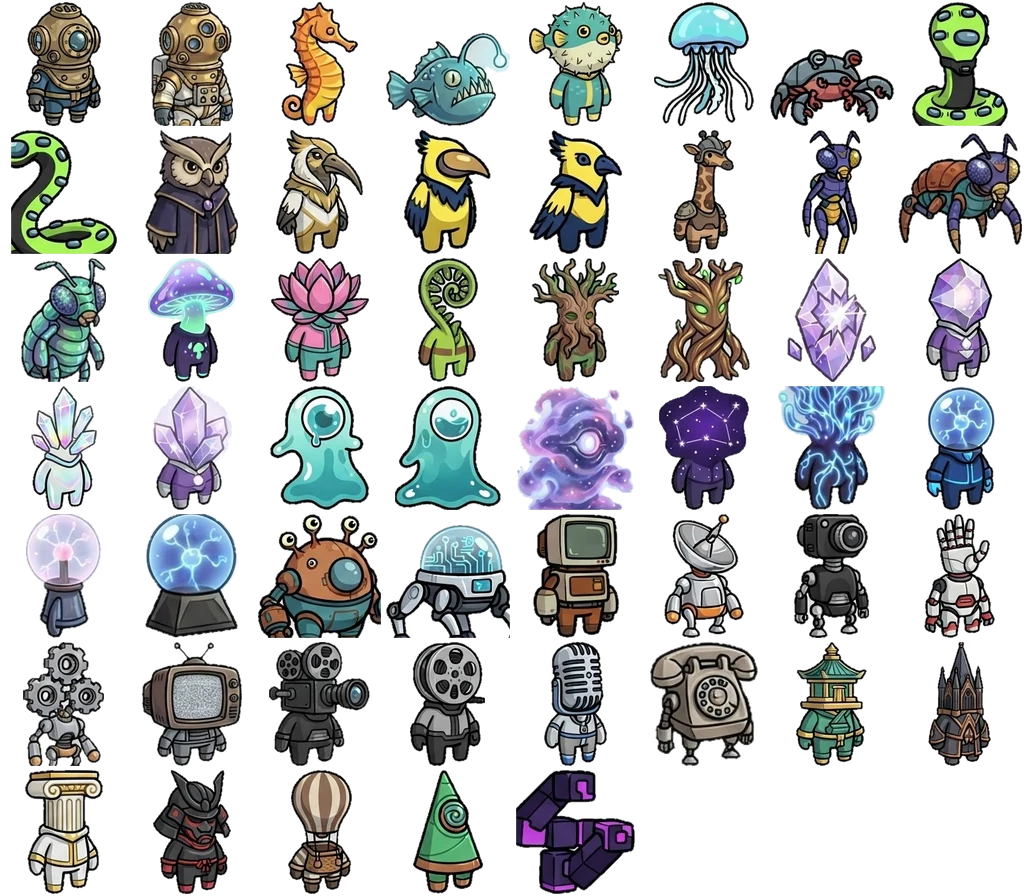
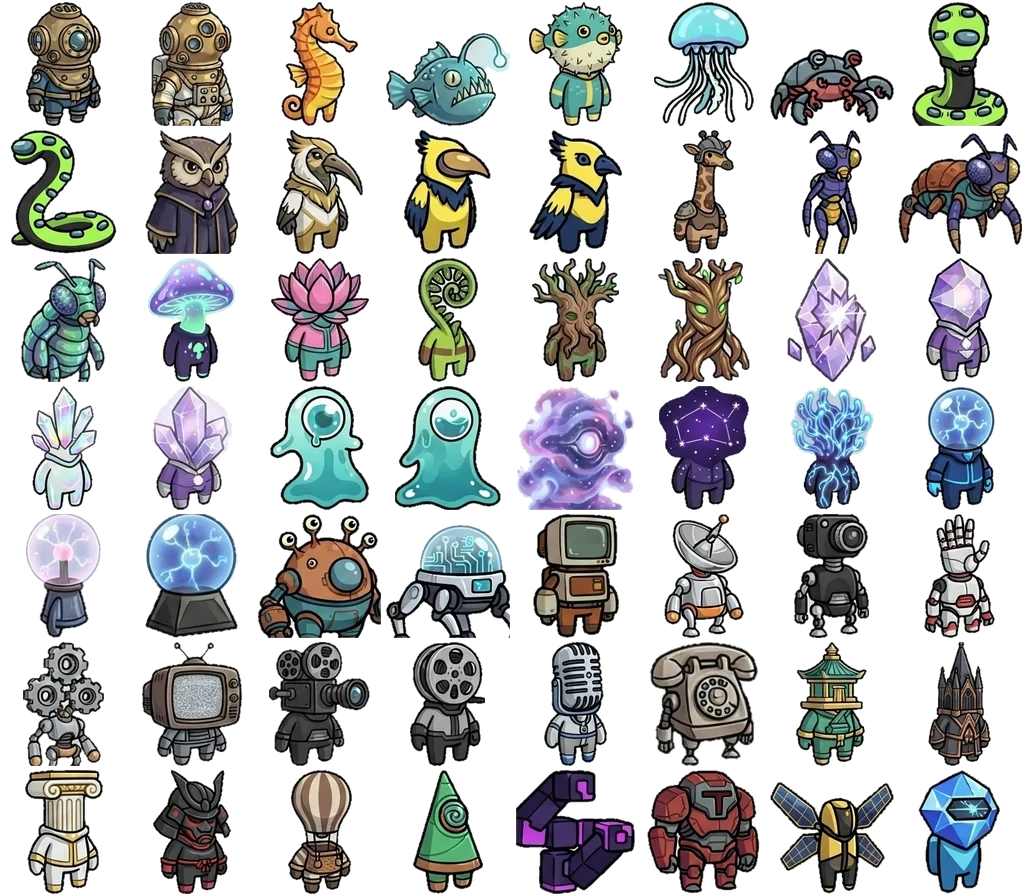
v25: vuelven la serpiente enrollada y el coral (completos) y se añaden robot acorazado, satélite y diamante
Claude-Session: https://claude.ai/code/session_015MjFWVPzSuBk34J6ed52Jz

Changed region(s): [[0.625, 0.8438, 1.0, 1.0], [0.75, 0.4062, 0.875, 0.5938], [0.0, 0.125, 0.125, 0.2812]]

diff --git a/js/personajes-data.js b/js/personajes-data.js
@@ -1,7 +1,7 @@
 /* Personajes (imágenes hechas por la familia con Gemini). Hoja: img/personajes.webp.
    Cada entrada: [id, x, y, ancho, alto, nombre ES, nombre EN] */
 (function (root) {
-  var LIST = [["b00", 26, 2, 75, 124, "Buzo", "Diver"], ["c00", 151, 2, 82, 124, "Buzo dorado", "Gold diver"], ["b24", 281, 2, 77, 124, "Caballito de mar", "Seahorse"], ["c11", 386, 33, 124, 93, "Pez abisal", "Anglerfish"], ["b11", 529, 2, 94, 124, "Pez globo", "Pufferfish"], ["a11", 654, 2, 100, 124, "Medusa", "Jellyfish"], ["a24", 770, 49, 124, 77, "Cangrejo", "Crab"], ["a04", 912, 2, 96, 124, "Serpiente", "Snake"], ["c01", 145, 130, 93, 124, "Búho", "Owl"], ["b01", 276, 130, 87, 124, "Ibis", "Ibis"], ["a20", 404, 130, 87, 124, "Tucán", "Toucan"], ["a21", 529, 130, 93, 124, "Pájaro", "Bird"], ["b14", 673, 130, 61, 124, "Jirafa", "Giraffe"], ["a01", 802, 130, 60, 124, "Hormiga", "Ant"], ["b04", 898, 133, 124, 121, "Escarabajo", "Beetle"], ["c04", 21, 258, 85, 124, "Mantis", "Mantis"], ["b03", 148, 258, 87, 124, "Seta brillante", "Glow mushroom"], ["b21", 271, 258, 98, 124, "Flor de loto", "Lotus"], ["b31", 418, 258, 60, 124, "Helecho", "Fern"], ["b33", 532, 258, 87, 124, "Árbol", "Tree"], ["c13", 658, 258, 92, 124, "Árbol mágico", "Magic tree"], ["a12", 787, 258, 89, 124, "Cristal", "Crystal"], ["b05", 926, 258, 67, 124, "Gema", "Gem"], ["b13", 31, 386, 66, 124, "Cuarzo", "Quartz"], ["c24", 152, 386, 80, 124, "Amatista", "Amethyst"], ["a14", 270, 386, 99, 124, "Babosa de un ojo", "Eye slime"], ["a15", 395, 386, 106, 124, "Babosa gota", "Drop slime"], ["c03", 517, 386, 117, 124, "Nebulosa", "Nebula"], ["b35", 659, 386, 90, 124, "Constelación", "Constellation"], ["b25", 925, 386, 70, 124, "Bola de plasma", "Plasma ball"], ["c34", 26, 514, 75, 124, "Lámpara de plasma", "Plasma lamp"], ["c35", 145, 514, 93, 124, "Orbe", "Orb"], ["a00", 258, 514, 123, 124, "Robot de ojos", "Eye bot"], ["a02", 386, 525, 124, 113, "Robot araña", "Spider bot"], ["a13", 533, 514, 86, 124, "Robot tele", "TV bot"], ["b02", 664, 514, 80, 124, "Antena", "Dish bot"], ["b20", 794, 514, 75, 124, "Cámara", "Camera"], ["b30", 924, 514, 71, 124, "Mano robot", "Robot hand"], ["c02", 23, 642, 81, 124, "Engranajes", "Gears"], ["c10", 142, 642, 100, 124, "Tele antigua", "Old TV"], ["c14", 269, 642, 101, 124, "Proyector", "Projector"], ["b15", 410, 642, 75, 124, "Rollo de cine", "Film reel"], ["b23", 544, 642, 63, 124, "Micrófono", "Microphone"], ["c30", 650, 642, 108, 124, "Teléfono", "Phone"], ["b10", 796, 642, 71, 124, "Pagoda", "Pagoda"], ["b22", 928, 642, 63, 124, "Catedral", "Cathedral"], ["b34", 25, 770, 78, 124, "Columna", "Column"], ["b12", 153, 770, 78, 124, "Samurái", "Samurai"], ["b32", 288, 770, 64, 124, "Globo", "Balloon"], ["a22", 413, 770, 70, 124, "Cono espiral", "Spiral cone"], ["a35", 516, 770, 119, 124, "Cubos", "Cubes"]];
+  var LIST = [["b00", 26, 2, 75, 124, "Buzo", "Diver"], ["c00", 151, 2, 82, 124, "Buzo dorado", "Gold diver"], ["b24", 281, 2, 77, 124, "Caballito de mar", "Seahorse"], ["c11", 386, 33, 124, 93, "Pez abisal", "Anglerfish"], ["b11", 529, 2, 94, 124, "Pez globo", "Pufferfish"], ["a11", 654, 2, 100, 124, "Medusa", "Jellyfish"], ["a24", 770, 49, 124, 77, "Cangrejo", "Crab"], ["a04", 912, 2, 96, 124, "Serpiente", "Snake"], ["a05", 10, 130, 107, 124, "Serpiente enrollada", "Coil snake"], ["c01", 145, 130, 93, 124, "Búho", "Owl"], ["b01", 276, 130, 87, 124, "Ibis", "Ibis"], ["a20", 404, 130, 87, 124, "Tucán", "Toucan"], ["a21", 529, 130, 93, 124, "Pájaro", "Bird"], ["b14", 673, 130, 61, 124, "Jirafa", "Giraffe"], ["a01", 802, 130, 60, 124, "Hormiga", "Ant"], ["b04", 898, 133, 124, 121, "Escarabajo", "Beetle"], ["c04", 21, 258, 85, 124, "Mantis", "Mantis"], ["b03", 148, 258, 87, 124, "Seta brillante", "Glow mushroom"], ["b21", 271, 258, 98, 124, "Flor de loto", "Lotus"], ["b31", 418, 258, 60, 124, "Helecho", "Fern"], ["b33", 532, 258, 87, 124, "Árbol", "Tree"], ["c13", 658, 258, 92, 124, "Árbol mágico", "Magic tree"], ["a12", 787, 258, 89, 124, "Cristal", "Crystal"], ["b05", 926, 258, 67, 124, "Gema", "Gem"], ["b13", 31, 386, 66, 124, "Cuarzo", "Quartz"], ["c24", 152, 386, 80, 124, "Amatista", "Amethyst"], ["c41", 790, 386, 84, 124, "Coral eléctrico", "Electric coral"], ["a14", 270, 386, 99, 124, "Babosa de un ojo", "Eye slime"], ["a15", 395, 386, 106, 124, "Babosa gota", "Drop slime"], ["c03", 517, 386, 117, 124, "Nebulosa", "Nebula"], ["b35", 659, 386, 90, 124, "Constelación", "Constellation"], ["b25", 925, 386, 70, 124, "Bola de plasma", "Plasma ball"], ["c34", 26, 514, 75, 124, "Lámpara de plasma", "Plasma lamp"], ["c35", 145, 514, 93, 124, "Orbe", "Orb"], ["a00", 258, 514, 123, 124, "Robot de ojos", "Eye bot"], ["a02", 386, 525, 124, 113, "Robot araña", "Spider bot"], ["a13", 533, 514, 86, 124, "Robot tele", "TV bot"], ["b02", 664, 514, 80, 124, "Antena", "Dish bot"], ["b20", 794, 514, 75, 124, "Cámara", "Camera"], ["b30", 924, 514, 71, 124, "Mano robot", "Robot hand"], ["c02", 23, 642, 81, 124, "Engranajes", "Gears"], ["c10", 142, 642, 100, 124, "Tele antigua", "Old TV"], ["c14", 269, 642, 101, 124, "Proyector", "Projector"], ["b15", 410, 642, 75, 124, "Rollo de cine", "Film reel"], ["b23", 544, 642, 63, 124, "Micrófono", "Microphone"], ["c30", 650, 642, 108, 124, "Teléfono", "Phone"], ["b10", 796, 642, 71, 124, "Pagoda", "Pagoda"], ["b22", 928, 642, 63, 124, "Catedral", "Cathedral"], ["b34", 25, 770, 78, 124, "Columna", "Column"], ["b12", 153, 770, 78, 124, "Samurái", "Samurai"], ["b32", 288, 770, 64, 124, "Globo", "Balloon"], ["a22", 413, 770, 70, 124, "Cono espiral", "Spiral cone"], ["a35", 516, 770, 119, 124, "Cubos", "Cubes"], ["d01", 647, 770, 113, 124, "Robot acorazado", "Armored robot"], ["d02", 770, 782, 124, 112, "Satélite", "Satellite"], ["d03", 918, 770, 83, 124, "Diamante", "Diamond"]];
   root.PERSONAJES_DATA = LIST;
   if (typeof module !== 'undefined') module.exports = LIST;
 })(typeof window !== 'undefined' ? window : globalThis);

diff --git a/movil.html b/movil.html
@@ -6,7 +6,7 @@
 <meta name="viewport" content="width=device-width, initial-scale=1, maximum-scale=1, user-scalable=no, viewport-fit=cover">
 <meta name="theme-color" content="#0b1026">
 <title>Sneak Out · Móvil</title>
-<link rel="stylesheet" href="css/estilo.css?v=24">
+<link rel="stylesheet" href="css/estilo.css?v=25">
 <link rel="manifest" href="manifest.webmanifest">
 <link rel="icon" href="icons/icono2-192.png">
 <link rel="apple-touch-icon" href="icons/icono2-apple-180.png">
@@ -178,25 +178,25 @@
   <canvas class="minimap" id="admCv"></canvas>
 </div>
 
-<script src="vendor/peerjs.min.js?v=24"></script>
-<script src="vendor/trystero.min.js?v=24"></script>
-<script src="js/rebote.js?v=24"></script>
-<script src="js/i18n.js?v=24"></script>
-<script src="js/map.js?v=24"></script>
-<script src="js/game.js?v=24"></script>
-<script src="js/personajes-data.js?v=24"></script>
-<script src="js/fondo.js?v=24"></script>
-<script src="js/efectos.js?v=24"></script>
-<script src="js/disfraces.js?v=24"></script>
-<script src="js/draw.js?v=24"></script>
-<script src="js/nave.js?v=24"></script>
-<script src="js/abisal.js?v=24"></script>
-<script src="js/net.js?v=24"></script>
-<script src="vendor/qrcode.js?v=24"></script>
-<script src="js/servidor.js?v=24"></script>
-<script src="js/ajustes.js?v=24"></script>
-<script src="js/minijuegos.js?v=24"></script>
-<script src="js/movil.js?v=24"></script>
+<script src="vendor/peerjs.min.js?v=25"></script>
+<script src="vendor/trystero.min.js?v=25"></script>
+<script src="js/rebote.js?v=25"></script>
+<script src="js/i18n.js?v=25"></script>
+<script src="js/map.js?v=25"></script>
+<script src="js/game.js?v=25"></script>
+<script src="js/personajes-data.js?v=25"></script>
+<script src="js/fondo.js?v=25"></script>
+<script src="js/efectos.js?v=25"></script>
+<script src="js/disfraces.js?v=25"></script>
+<script src="js/draw.js?v=25"></script>
+<script src="js/nave.js?v=25"></script>
+<script src="js/abisal.js?v=25"></script>
+<script src="js/net.js?v=25"></script>
+<script src="vendor/qrcode.js?v=25"></script>
+<script src="js/servidor.js?v=25"></script>
+<script src="js/ajustes.js?v=25"></script>
+<script src="js/minijuegos.js?v=25"></script>
+<script src="js/movil.js?v=25"></script>
 <script>if ('serviceWorker' in navigator) { try { navigator.serviceWorker.register('sw.js'); } catch (e) {} }</script>
 </body>
 </html>

diff --git a/tele.html b/tele.html
@@ -5,7 +5,7 @@
 <meta name="robots" content="noindex, nofollow, noarchive">
 <meta name="viewport" content="width=device-width, initial-scale=1">
 <title>Sneak Out · Tele</title>
-<link rel="stylesheet" href="css/estilo.css?v=24">
+<link rel="stylesheet" href="css/estilo.css?v=25">
 <link rel="manifest" href="manifest.webmanifest">
 <link rel="icon" href="icons/icono2-192.png">
 <link rel="apple-touch-icon" href="icons/icono2-apple-180.png">
@@ -101,24 +101,24 @@
 
 <div class="lost hidden" id="lost"><span data-i18n="tv.lostTitle"></span> · <span data-i18n="tv.lostText"></span></div>
 
-<script src="vendor/peerjs.min.js?v=24"></script>
-<script src="vendor/trystero.min.js?v=24"></script>
-<script src="js/rebote.js?v=24"></script>
-<script src="vendor/qrcode.js?v=24"></script>
-<script src="js/i18n.js?v=24"></script>
-<script src="js/map.js?v=24"></script>
-<script src="js/game.js?v=24"></script>
-<script src="js/personajes-data.js?v=24"></script>
-<script src="js/fondo.js?v=24"></script>
-<script src="js/efectos.js?v=24"></script>
-<script src="js/disfraces.js?v=24"></script>
-<script src="js/draw.js?v=24"></script>
-<script src="js/nave.js?v=24"></script>
-<script src="js/abisal.js?v=24"></script>
-<script src="js/net.js?v=24"></script>
-<script src="js/servidor.js?v=24"></script>
-<script src="js/ajustes.js?v=24"></script>
-<script src="js/tele.js?v=24"></script>
+<script src="vendor/peerjs.min.js?v=25"></script>
+<script src="vendor/trystero.min.js?v=25"></script>
+<script src="js/rebote.js?v=25"></script>
+<script src="vendor/qrcode.js?v=25"></script>
+<script src="js/i18n.js?v=25"></script>
+<script src="js/map.js?v=25"></script>
+<script src="js/game.js?v=25"></script>
+<script src="js/personajes-data.js?v=25"></script>
+<script src="js/fondo.js?v=25"></script>
+<script src="js/efectos.js?v=25"></script>
+<script src="js/disfraces.js?v=25"></script>
+<script src="js/draw.js?v=25"></script>
+<script src="js/nave.js?v=25"></script>
+<script src="js/abisal.js?v=25"></script>
+<script src="js/net.js?v=25"></script>
+<script src="js/servidor.js?v=25"></script>
+<script src="js/ajustes.js?v=25"></script>
+<script src="js/tele.js?v=25"></script>
 <script>if ('serviceWorker' in navigator) { try { navigator.serviceWorker.register('sw.js'); } catch (e) {} }</script>
 </body>
 </html>

diff --git a/index.html b/index.html
@@ -5,7 +5,7 @@
 <meta name="robots" content="noindex, nofollow, noarchive">
 <meta name="viewport" content="width=device-width, initial-scale=1">
 <title>Sneak Out</title>
-<link rel="stylesheet" href="css/estilo.css?v=24">
+<link rel="stylesheet" href="css/estilo.css?v=25">
 <link rel="manifest" href="manifest.webmanifest">
 <link rel="icon" href="icons/icono2-192.png">
 <link rel="apple-touch-icon" href="icons/icono2-apple-180.png">
@@ -36,11 +36,11 @@
   </div>
   <div class="muted small hidden" id="installHelp" data-i18n="app.installHelp" style="max-width:420px"></div>
   <div class="muted small hidden" id="shareMsg" style="max-width:420px"></div>
-  <div class="ver">v24</div>
+  <div class="ver">v25</div>
 </div>
-<script src="js/personajes-data.js?v=24"></script>
-<script src="js/fondo.js?v=24"></script>
-<script src="js/i18n.js?v=24"></script>
+<script src="js/personajes-data.js?v=25"></script>
+<script src="js/fondo.js?v=25"></script>
+<script src="js/i18n.js?v=25"></script>
 <script>
   (function () {
     var q = location.search;

diff --git a/sw.js b/sw.js
@@ -1,6 +1,6 @@
 /* Hace que el juego se pueda instalar como app y abrir sin Internet (para jugar solo).
    Siempre intenta primero la versión nueva de Internet; si no hay conexión, usa la guardada. */
-var CACHE = 'nave-familiar'; // v24
+var CACHE = 'nave-familiar'; // v25
 self.addEventListener('install', function () { self.skipWaiting(); });
 self.addEventListener('activate', function (e) { e.waitUntil(self.clients.claim()); });
 self.addEventListener('fetch', function (e) {
